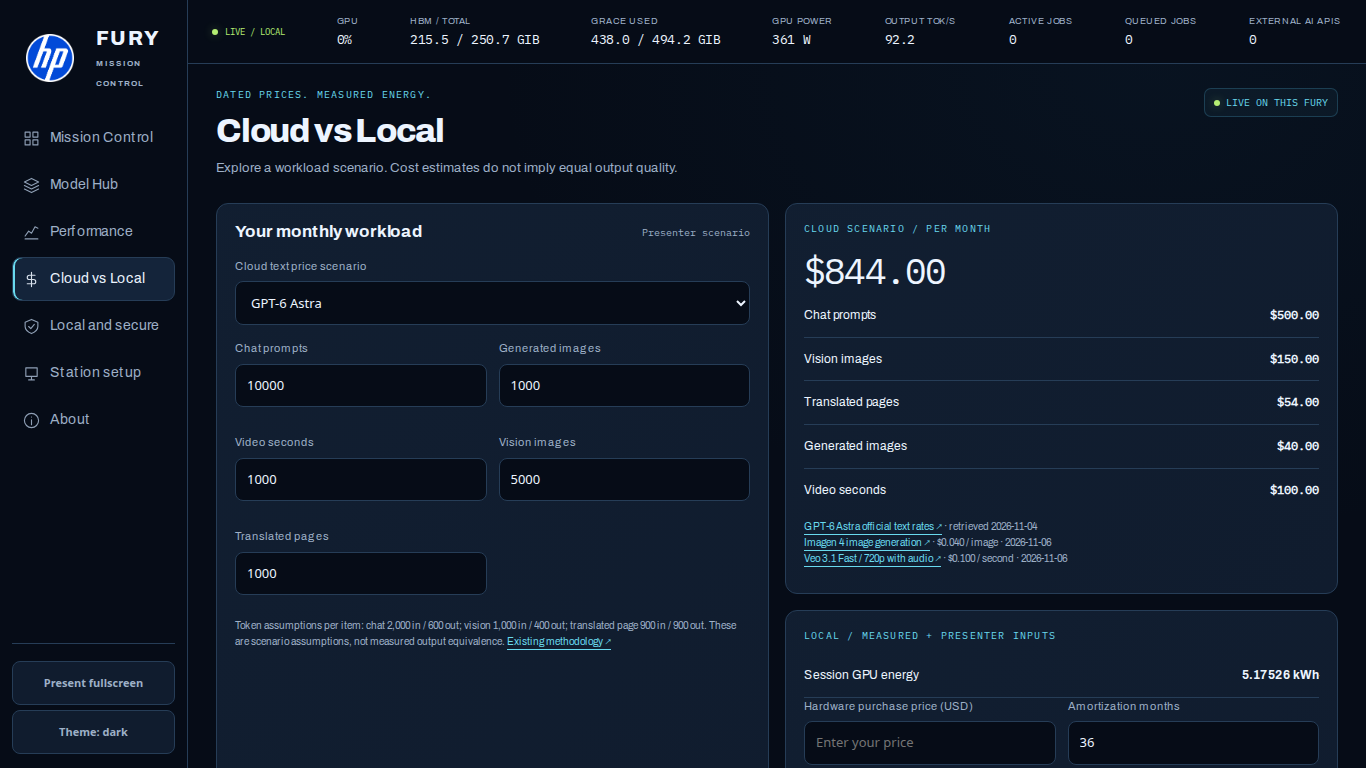
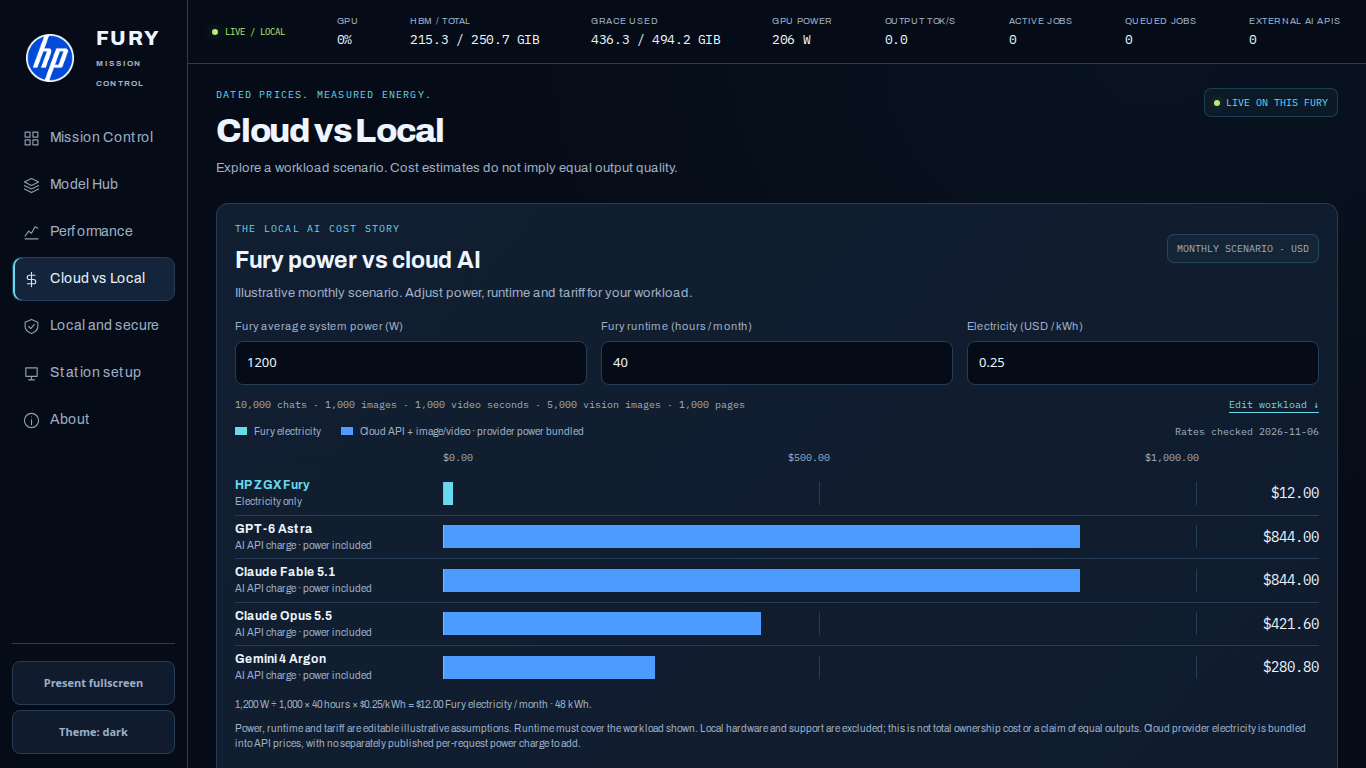
Compare Fury electricity with current frontier API cost scenarios

diff --git a/showcase_app/assets/frontier-cost.js b/showcase_app/assets/frontier-cost.js
@@ -1,0 +1,56 @@
+/* Cost scenarios only: no inference, external price requests or ownership-cost claims. */
+(() => {
+ const finite=value=>typeof value==='number'&&Number.isFinite(value)&&value>=0;
+ const amount=value=>value===''||value===null||value===undefined?null:finite(Number(value))?Number(value):null;
+ function calculate(pricing,counts,power){
+  const n=id=>amount(counts[id])??0;
+  const input=n('prompts')*2000+n('vision')*1000+n('pages')*900;
+  const output=n('prompts')*600+n('vision')*400+n('pages')*900;
+  const image=n('images')*(pricing.workloads?.image?.usd_per_unit??0);
+  const video=n('video')*(pricing.workloads?.video?.usd_per_unit??0);
+  if(![input,output,image,video].every(finite))return {invalid:true};
+  const watts=amount(power.watts),hours=amount(power.hours),tariff=amount(power.tariff);
+  const energy=watts===null||hours===null?null:watts/1000*hours;
+  const kwh=finite(energy)?energy:null;
+  const electricity=kwh===null||tariff===null?null:kwh*tariff;
+  const cloud=pricing.models.map(model=>({id:model.id,name:model.name,source:model.source,note:model.note,input:model.input,output:model.output,text:(input*model.input+output*model.output)/1e6,total:(input*model.input+output*model.output)/1e6+image+video}));
+  if(!cloud.every(model=>finite(model.text)&&finite(model.total)))return {invalid:true};
+  return {input,output,image,video,kwh,local:finite(electricity)?electricity:null,cloud};
+ }
+ const api={calculate};
+ if(typeof module!=='undefined'&&module.exports)module.exports=api;
+ if(typeof window==='undefined')return;
+ const esc=value=>String(value??'').replace(/[&<>"']/g,c=>({'&':'&amp;','<':'&lt;','>':'&gt;','"':'&quot;',"'":'&#39;'}[c]));
+ const usd=value=>value===null?'Enter power assumptions':new Intl.NumberFormat('en-US',{style:'currency',currency:'USD',minimumFractionDigits:2,maximumFractionDigits:value>0&&value<.01?5:2}).format(value);
+ api.section=()=>`<section class="mc-panel frontier-cost" aria-labelledby="frontier-cost-title">
+  <div class="mc-panel-header"><div><p class="mc-eyebrow">THE LOCAL AI COST STORY</p><h2 id="frontier-cost-title">Fury power vs cloud AI</h2></div><span class="mc-badge">MONTHLY SCENARIO · USD</span></div>
+  <p class="frontier-intro">Illustrative monthly scenario. Adjust power, runtime and tariff for your workload.</p>
+  <div class="frontier-assumptions mc-form"><label>Fury average system power (W)<input id="compare-watts" type="number" min="0" step="50" value="1200"></label><label>Fury runtime (hours / month)<input id="compare-hours" type="number" min="0" step="1" value="40"></label><label>Electricity (USD / kWh)<input id="electricity-price" type="number" min="0" step="0.01" value="0.25"></label></div>
+  <div class="frontier-context"><span id="frontier-workload"></span><a href="#monthly-workload">Edit workload ↓</a></div>
+  <div class="frontier-legend"><span><i class="frontier-key-local"></i>Fury electricity</span><span><i class="frontier-key-cloud"></i>Cloud API + image/video · provider power bundled</span><span id="frontier-asof" class="frontier-asof"></span></div>
+  <div id="frontier-bars" class="frontier-bars" role="img" aria-label="Monthly Fury electricity and frontier cloud API cost comparison"></div>
+  <p id="frontier-equation" class="mc-form-note"></p>
+  <p class="frontier-caveat">Power, runtime and tariff are editable illustrative assumptions. Runtime must cover the workload shown. Local hardware and support are excluded; this is not total ownership cost or a claim of equal outputs. Cloud provider electricity is bundled into API prices, with no separately published per-request power charge to add.</p>
+  <details class="frontier-sources"><summary>Rates, sources and what is included</summary><p id="frontier-date" class="mc-form-note"></p><div class="frontier-source-table"><table><thead><tr><th>Text model</th><th>Input / 1M</th><th>Output / 1M</th></tr></thead><tbody id="frontier-rates"></tbody></table></div><p class="mc-form-note">Standard uncached USD rates. Chat: 2,000 input / 600 output tokens; vision: 1,000 / 400; translated page: 900 / 900. Image and video generation use the same Imagen 4 / Veo 3.1 Fast API assumptions for every cloud row. Tokenizers, reasoning usage, throughput and output quality differ. Client-device electricity, taxes, tools and network costs are excluded from both options.</p></details>
+ </section>`;
+ let previous='';
+ api.render=(pricing,counts,power)=>{
+  const chart=document.getElementById('frontier-bars');if(!chart)return;
+  const signature=JSON.stringify([pricing,counts,power]);if(signature===previous)return;previous=signature;
+  const c=calculate(pricing,counts,power);
+  if(c.invalid){chart.textContent='Workload values are too large to calculate. Reduce the inputs.';return;}
+  const local={id:'fury',name:'HP ZGX Fury',total:c.local,local:true};
+  const rows=[local,...c.cloud],largest=Math.max(...rows.map(row=>row.total??0),0);
+  const base=largest>0?10**Math.floor(Math.log10(largest)):1;
+  const maximum=largest>0?[1,2,5,10].map(n=>n*base).find(n=>n>=largest):1;
+  const number=value=>new Intl.NumberFormat('en-US',{maximumFractionDigits:3}).format(value);
+  chart.innerHTML='<div class="frontier-axis" aria-hidden="true"><span>'+usd(0)+'</span><span>'+usd(maximum/2)+'</span><span>'+usd(maximum)+'</span></div>'+rows.map(row=>'<div class="frontier-row '+(row.local?'frontier-local':'')+'" data-frontier-id="'+esc(row.id)+'"><div class="frontier-label"><strong>'+esc(row.name)+'</strong><small>'+(row.local?'Electricity only':'AI API charge · power included')+'</small></div><div class="frontier-track" aria-hidden="true"><i style="width:'+((row.total??0)/maximum*100)+'%"></i></div><strong class="frontier-value" data-usd="'+(row.total===null?'':row.total)+'">'+usd(row.total)+'</strong></div>').join('');
+  chart.setAttribute('aria-label',rows.map(row=>row.name+': '+usd(row.total)+' per month').join('; '));
+  document.getElementById('frontier-workload').textContent=number(amount(counts.prompts)??0)+' chats · '+number(amount(counts.images)??0)+' images · '+number(amount(counts.video)??0)+' video seconds · '+number(amount(counts.vision)??0)+' vision images · '+number(amount(counts.pages)??0)+' pages';
+  document.getElementById('frontier-equation').textContent=c.local===null?'Enter nonnegative power, runtime and tariff values. Cloud estimates remain visible.':number(Number(power.watts))+' W ÷ 1,000 × '+number(Number(power.hours))+' hours × '+usd(Number(power.tariff))+'/kWh = '+usd(c.local)+' Fury electricity / month · '+number(c.kwh)+' kWh.';
+  document.getElementById('frontier-asof').textContent='Rates checked '+pricing.checked;
+  document.getElementById('frontier-date').textContent='Representative frontier models as of '+pricing.checked+'; not a performance or usage ranking. Official text rates checked '+pricing.checked+'. Prices are cached locally; no paid cloud calls. '+(pricing.models.some(m=>m.effective_until)?'Time-limited promotions and their expiry are shown below.':'');
+  document.getElementById('frontier-rates').innerHTML=c.cloud.map(m=>'<tr><td><a href="'+esc(m.source)+'" target="_blank" rel="noopener">'+esc(m.name)+' ↗</a><small>'+esc(m.note)+'</small></td><td>'+usd(m.input)+'</td><td>'+usd(m.output)+'</td></tr>').join('');
+ };
+ window.FuryFrontierCost=api;
+})();

diff --git a/showcase_app/assets/mission.js b/showcase_app/assets/mission.js
@@ -88,7 +88,7 @@
   if(screen==='economics')initEconomics(main);
  }
  function initEconomics(el){
-  el.innerHTML=heading('DATED PRICES. MEASURED ENERGY.','Cloud vs Local','Explore a workload scenario. Cost estimates do not imply equal output quality.')+'<div class="mc-grid-two"><section class="mc-panel mc-form"><div class="mc-panel-header"><h2>Your monthly workload</h2><span>Presenter scenario</span></div><label>Cloud text price scenario<select id="cost-model"></select></label><div class="mc-form-row">'+[['prompts','Chat prompts',10000],['images','Generated images',1000],['video','Video seconds',1000],['vision','Vision images',5000],['pages','Translated pages',1000]].map(([id,label,v])=>'<label>'+label+'<input type="number" min="0" step="1" id="cost-'+id+'" value="'+v+'"></label>').join('')+'</div><p class="mc-form-note">Token assumptions per item: chat 2,000 in / 600 out; vision 1,000 in / 400 out; translated page 900 in / 900 out. These are scenario assumptions, not measured output equivalence. '+sourceLink('/methodology','Existing methodology')+'</p></section><div><section class="mc-panel"><p class="mc-eyebrow">CLOUD SCENARIO / PER MONTH</p><div class="mc-cost-value" id="cloud-total">—</div><div id="cloud-breakdown"></div><p class="mc-form-note" id="cost-source"></p></section><section class="mc-panel mc-form" style="margin-top:16px"><p class="mc-eyebrow">LOCAL / MEASURED + PRESENTER INPUTS</p><div class="mc-cost-line"><span>Session GPU energy</span><b id="local-energy">—</b></div><div class="mc-form-row"><label>Hardware purchase price (USD)<input id="hardware-price" type="number" min="0" placeholder="Enter your price"></label><label>Amortization months<input id="amort-months" type="number" min="1" value="36"></label><label>Your electricity price (USD/kWh)<input id="electricity-price" type="number" min="0" step="0.01" placeholder="Enter your tariff"></label></div><div class="mc-cost-line"><span>Hardware amortization / month</span><b id="amort-value">Enter hardware price</b></div><div class="mc-cost-line"><span>Measured session GPU electricity</span><b id="electricity-value">Enter your tariff</b></div><p class="mc-form-note">Electricity is not total cost of ownership. GPU energy excludes Grace, cooling and other host energy. Hardware, support, utilization and output quality change the comparison. No monthly electricity projection is invented.</p></section></div></div>';
+  el.innerHTML=heading('DATED PRICES. MEASURED ENERGY.','Cloud vs Local','Explore a workload scenario. Cost estimates do not imply equal output quality.')+window.FuryFrontierCost.section()+'<div class="mc-grid-two" id="monthly-workload"><section class="mc-panel mc-form"><div class="mc-panel-header"><h2>Your monthly workload</h2><span>Presenter scenario</span></div><label>Cloud text price scenario<select id="cost-model"></select></label><div class="mc-form-row">'+[['prompts','Chat prompts',10000],['images','Generated images',1000],['video','Video seconds',1000],['vision','Vision images',5000],['pages','Translated pages',1000]].map(([id,label,v])=>'<label>'+label+'<input type="number" min="0" step="1" id="cost-'+id+'" value="'+v+'"></label>').join('')+'</div><p class="mc-form-note">Token assumptions per item: chat 2,000 in / 600 out; vision 1,000 in / 400 out; translated page 900 in / 900 out. These are scenario assumptions, not measured output equivalence. '+sourceLink('/methodology','Existing methodology')+'</p></section><div><section class="mc-panel"><p class="mc-eyebrow">CLOUD SCENARIO / PER MONTH</p><div class="mc-cost-value" id="cloud-total">—</div><div id="cloud-breakdown"></div><p class="mc-form-note" id="cost-source"></p></section><section class="mc-panel mc-form" style="margin-top:16px"><p class="mc-eyebrow">LOCAL / MEASURED + PRESENTER INPUTS</p><div class="mc-cost-line"><span>Session GPU energy</span><b id="local-energy">—</b></div><div class="mc-form-row"><label>Hardware purchase price (USD)<input id="hardware-price" type="number" min="0" placeholder="Enter your price"></label><label>Amortization months<input id="amort-months" type="number" min="1" value="36"></label></div><div class="mc-cost-line"><span>Hardware amortization / month</span><b id="amort-value">Enter hardware price</b></div><div class="mc-cost-line"><span>Measured session GPU electricity</span><b id="electricity-value">Enter your tariff</b></div><p class="mc-form-note">Electricity is not total cost of ownership. GPU energy excludes Grace, cooling and other host energy. Hardware, support, utilization and output quality change the comparison. The monthly chart uses your explicit power and runtime assumptions above.</p></section></div></div>';
   el.querySelectorAll('input,select').forEach(n=>n.addEventListener('input',()=>latest&&economics(latest)));
  }
  let pricingSignature='';
@@ -101,6 +101,7 @@
   if(pricing.workloads?.video)entries.push(['Video seconds',value('cost-video')*pricing.workloads.video.usd_per_unit]);
   text('cloud-total','$'+num(entries.reduce((sum,[_,v])=>sum+v,0),2));document.getElementById('cloud-breakdown').innerHTML=entries.map(([label,v])=>'<div class="mc-cost-line"><span>'+label+'</span><b class="mc-mono">$'+num(v,2)+'</b></div>').join('');
   document.getElementById('cost-source').innerHTML=sourceLink(model.source,model.name+' official text rates')+' · retrieved '+esc(pricing.checked)+(pricing.workloads?Object.values(pricing.workloads).map(p=>'<br>'+sourceLink(p.source,p.name)+' · $'+num(p.usd_per_unit,3)+' / '+esc(p.unit)+' · '+esc(p.retrieved)).join(''):'');
+  window.FuryFrontierCost.render(pricing,Object.fromEntries(['prompts','images','video','vision','pages'].map(id=>[id,document.getElementById('cost-'+id).value])),{watts:document.getElementById('compare-watts').value,hours:document.getElementById('compare-hours').value,tariff:document.getElementById('electricity-price').value});
   const energy=data.event.totals.energies_kwh['GPU only'];text('local-energy',typeof energy==='number'?num(energy,5)+' kWh':'Collecting measured energy');
   const hp=document.getElementById('hardware-price').value,tariff=document.getElementById('electricity-price').value;
   text('amort-value',hp?'$'+num(value('hardware-price')/Math.max(1,value('amort-months')),2):'Enter hardware price');text('electricity-value',tariff!==''&&typeof energy==='number'?'$'+num(energy*value('electricity-price'),4):'Enter your tariff');

diff --git a/showcase_app/assets/mission.css b/showcase_app/assets/mission.css
@@ -51,3 +51,10 @@ body:is(.mission-layout,.mission-embedded)[data-workflow=atlas]>footer>div{gap:1
 body:is(.mission-layout,.mission-embedded)[data-workflow=atlas]>footer button,body:is(.mission-layout,.mission-embedded)[data-workflow=atlas] #local-clock{white-space:nowrap}
 @media(min-width:1000px) and (max-width:1320px){body:is(.mission-layout,.mission-embedded)[data-workflow=atlas] .workspace{grid-template-columns:minmax(180px,.75fr) minmax(340px,1.5fr) minmax(220px,1fr)!important}}
 @media(min-width:1000px){body:is(.mission-layout,.mission-embedded)[data-workflow=atlas] .left-column{display:flex!important;flex-direction:column;gap:10px}body:is(.mission-layout,.mission-embedded)[data-workflow=atlas] .secondary-actions{grid-column:auto;flex-direction:column;margin-top:0}body:is(.mission-layout,.mission-embedded)[data-workflow=atlas] .secondary-actions button{min-width:0}}
+
+/* The cost story uses one zero-based, linear USD axis for every option. */
+.frontier-cost{margin-bottom:20px}.frontier-cost .mc-panel-header{margin-bottom:8px}.frontier-cost h2{font-size:23px}.frontier-intro{margin:5px 0 14px!important}.frontier-assumptions{display:grid;grid-template-columns:repeat(3,minmax(0,1fr));gap:14px}.frontier-assumptions label{margin-bottom:10px}.frontier-context{display:flex;gap:14px;justify-content:space-between;align-items:center;font:10px/1.5 Plex,monospace;color:var(--mc-muted);margin:2px 0 12px}.frontier-context a{white-space:nowrap}.frontier-legend{display:flex;gap:20px;flex-wrap:wrap;font-size:10px;color:var(--mc-muted);margin:0 0 4px}.frontier-legend span{display:inline-flex;gap:7px;align-items:center}.frontier-legend i{width:12px;height:8px;display:inline-block}.frontier-key-local{background:var(--mc-cyan)}.frontier-key-cloud{background:var(--mc-blue)}.frontier-axis{margin-left:208px;margin-right:120px;display:flex;justify-content:space-between;color:var(--mc-muted);font:10px Plex,monospace;padding:8px 0}.frontier-row{display:grid;grid-template-columns:190px minmax(0,1fr) 104px;gap:18px;align-items:center;padding:9px 0;border-bottom:1px solid var(--mc-line)}.frontier-row:last-child{border-bottom:0}.frontier-label strong{font-size:12px;display:block}.frontier-label small{display:block;font-size:10px;color:var(--mc-muted);margin-top:4px}.frontier-track{height:23px;border-left:1px solid var(--mc-muted);background:repeating-linear-gradient(to right,transparent 0,transparent calc(50% - 1px),var(--mc-line) calc(50% - 1px),var(--mc-line) 50%)}.frontier-track i{height:100%;display:block;background:var(--mc-blue);transition:width .25s ease}.frontier-local .frontier-track i{background:var(--mc-cyan)}.frontier-local .frontier-label strong{color:var(--mc-cyan)}.frontier-value{text-align:right;font:14px Plex,monospace;overflow-wrap:anywhere}.frontier-caveat{font-size:10px!important;line-height:1.6!important;margin:8px 0!important}.frontier-sources{font-size:11px;color:var(--mc-muted)}.frontier-sources summary{cursor:pointer;min-height:36px;display:list-item;padding:9px 0}.frontier-source-table{overflow:auto}.frontier-source-table table{border-collapse:collapse;width:100%;font-size:11px}.frontier-source-table td,.frontier-source-table th{text-align:left;padding:10px 8px;border-bottom:1px solid var(--mc-line)}.frontier-source-table td small{display:block;font-size:10px;max-width:620px;line-height:1.5;margin-top:4px}.frontier-source-table td:not(:first-child){white-space:nowrap}#monthly-workload{scroll-margin-top:14px}
+@media(max-width:700px){.frontier-cost h2{font-size:20px}.frontier-assumptions{grid-template-columns:1fr;gap:0}.frontier-cost .mc-panel-header{align-items:start;flex-direction:column}.frontier-context{align-items:start;flex-direction:column;gap:6px}.frontier-row{grid-template-columns:minmax(0,1fr) 95px;gap:8px}.frontier-label{grid-column:1}.frontier-value{grid-column:2;grid-row:1}.frontier-track{grid-column:1/-1;grid-row:2;height:19px}.frontier-axis{margin:0}.frontier-legend{gap:8px}}
+@media(prefers-reduced-motion:reduce){.frontier-track i{transition:none}}
+.frontier-row{padding:6px 0}.frontier-label strong{line-height:1.25}.frontier-label small{line-height:1.25;margin-top:3px}.frontier-caveat{line-height:1.5!important}
+.frontier-asof{margin-left:auto;font-family:Plex,monospace}

diff --git a/ops/tests/test_frontier_cost.js b/ops/tests/test_frontier_cost.js
@@ -1,0 +1,40 @@
+/* Independent arithmetic cases for the public monthly comparison. */
+const {test}=require('node:test');
+const assert=require('node:assert/strict');
+const {calculate}=require('../../showcase_app/assets/frontier-cost.js');
+const pricing=require('../../config/event-pricing.json');
+const counts={prompts:10000,images:1000,video:1000,vision:5000,pages:1000};
+const power={watts:1200,hours:40,tariff:.25};
+test('same monthly workload is priced for every model, with one shared media charge',()=>{
+ const c=calculate(pricing,counts,power);
+ assert.equal(c.input,25900000);assert.equal(c.output,8900000);
+ assert.equal(c.image,40);assert.equal(c.video,100);
+ assert.equal(c.kwh,48);assert.equal(c.local,12);
+ assert.equal(c.cloud.find(m=>m.id==='gpt-6-astra').total,844);
+ assert.equal(c.cloud.find(m=>m.id==='claude-fable-5-1').total,844);
+ assert.equal(c.cloud.find(m=>m.id==='claude-opus-5-5').total,421.6);
+ assert.equal(c.cloud.find(m=>m.id==='gemini-4-argon').total,280.8);
+});
+test('free tariff and zero workload are real zeros',()=>{
+ assert.equal(calculate(pricing,counts,{...power,tariff:0}).local,0);
+ const c=calculate(pricing,{}, {...power,hours:0});
+ assert.equal(c.local,0);assert.ok(c.cloud.every(m=>m.total===0));
+});
+test('missing or invalid power assumptions are unavailable, not zero or a fabricated saving',()=>{
+ for(const value of ['',undefined,null,-1,'bad',Infinity]){
+  assert.equal(calculate(pricing,counts,{...power,tariff:value}).local,null);
+  assert.equal(calculate(pricing,counts,{...power,hours:value}).local,null);
+  assert.equal(calculate(pricing,counts,{...power,watts:value}).local,null);
+ }
+});
+test('expired promotional prices supplied by server change text only; no provider energy double count',()=>{
+ const expired={...pricing,models:pricing.models.map(m=>m.id==='gemini-4-argon'?{...m,input:4,output:20}:m)};
+ const c=calculate(expired,counts,power);
+ assert.equal(c.cloud.find(m=>m.id==='gemini-4-argon').total,421.6);
+ assert.equal(c.local,12);
+});
+test('overflow never appears as a numeric cost or a zero-cost claim',()=>{
+ assert.equal(calculate(pricing,{...counts,prompts:1e308},power).invalid,true);
+ assert.equal(calculate(pricing,{...counts,prompts:1e304},power).invalid,true);
+ assert.equal(calculate(pricing,counts,{...power,watts:1e308,hours:1e308}).local,null);
+});

diff --git a/showcase_app/mission.html b/showcase_app/mission.html
@@ -1,1 +1,1 @@
-<!doctype html><html lang="en"><head><meta charset="utf-8"><meta name="viewport" content="width=device-width,initial-scale=1"><title>Fury Mission Control</title><link rel="icon" href="/showcase-assets/hp-logo-keyline.png"><link rel="stylesheet" href="/showcase-assets/design.css"><link rel="stylesheet" href="/showcase-assets/hp-shell.css"><link rel="stylesheet" href="/showcase-assets/mission.css"><script defer src="/showcase-assets/device-navigation.js"></script><script defer src="/showcase-assets/hp-shell.js"></script><script defer src="/showcase-assets/mission.js"></script></head><body><main class="mission-main" id="main"><div id="mission-content"></div></main></body></html>
+<!doctype html><html lang="en"><head><meta charset="utf-8"><meta name="viewport" content="width=device-width,initial-scale=1"><title>Fury Mission Control</title><link rel="icon" href="/showcase-assets/hp-logo-keyline.png"><link rel="stylesheet" href="/showcase-assets/design.css"><link rel="stylesheet" href="/showcase-assets/hp-shell.css"><link rel="stylesheet" href="/showcase-assets/mission.css"><script defer src="/showcase-assets/device-navigation.js"></script><script defer src="/showcase-assets/hp-shell.js"></script><script defer src="/showcase-assets/frontier-cost.js"></script><script defer src="/showcase-assets/mission.js"></script></head><body><main class="mission-main" id="main"><div id="mission-content"></div></main></body></html>

diff --git a/docs/CLOUD-COMPARISON.md b/docs/CLOUD-COMPARISON.md
@@ -1,0 +1,24 @@
+# Fury electricity and frontier API comparison
+
+The Cloud vs Local page (`/economics`) now leads with an interactive horizontal bar chart. All bars share a linear USD axis starting at zero, with exact values visible alongside them. Power, hours, tariff and monthly workload are editable; changing them updates the chart and preserves the existing detailed calculator and measured event-energy readout.
+
+The local bar is **estimated whole-Fury electricity**, using the presenter's average system power, runtime and tariff. The initial 1,200 W / 40 hours / $0.25 per kWh are explicitly illustrative assumptions, not wall-meter measurements or a local tariff claim. Runtime must cover the entered workload. Hardware, support, cooling outside the supplied power scope and client-device costs are excluded. Electricity is not total ownership cost.
+
+Cloud bars include the text API estimate plus the same configured image/video-generation services. Provider electricity is bundled into the API charge; providers do not publish a separate per-request electricity charge to add. No artificial cloud power surcharge or energy split is invented. Tokenizers, reasoning usage, throughput, quality and task success differ; these are cost scenarios, not measured output equivalence or a model popularity ranking.
+
+## Rates checked 6 November 2026
+
+| Representative model | Standard input / 1M USD | Standard output / 1M USD | Official source |
+|---|---:|---:|---|
+| GPT-6 Astra | 10 | 50 | [OpenAI model page](https://developers.openai.com/api/docs/models/gpt-6-astra) and [pricing](https://developers.openai.com/api/docs/pricing) |
+| Claude Fable 5.1 | 10 | 50 | [Anthropic pricing](https://platform.claude.com/docs/en/about-claude/pricing) |
+| Claude Opus 5.5 | 4 | 20 | [Anthropic pricing](https://platform.claude.com/docs/en/about-claude/pricing) |
+| Gemini 4 Argon | 2 | 10 | [Google pricing](https://aistudio.google.com/docs/pricing#gemini-4-argon) |
+
+Gemini's promotional $2 / $10 rates expire after 30 November 2026; the server uses $4 / $20 from 1 December. Existing per-request long-context pricing remains intact for event repricing. Monthly items use the displayed short-request assumptions. No prompt-cache, batch or regional discounts, taxes or paid tools are inferred. All prices are cached locally; visitors make no cloud inference or price-fetch calls.
+
+For the initial monthly example, 10,000 chats, 5,000 vision inputs and 1,000 translated pages represent 25.9 million assumed input and 8.9 million assumed output tokens. Image generation adds $40 (1,000 × $0.04) and video adds $100 (1,000 seconds × $0.10). These shared Imagen 4 / Veo 3.1 Fast assumptions and their official sources remain visible in the calculator. The resulting cloud rows are $844.00, $844.00, $421.60 and $280.80. The local example is 1.2 kW × 40 hours × $0.25 = **$12.00** for 48 kWh. This arithmetic does not establish that the machine can finish any arbitrary workload in 40 hours.
+
+## Verification
+
+Five independent arithmetic tests cover token/media reconciliation, zero versus unavailable electricity, promotion-expiry inputs and numeric overflow. Existing fifteen event accounting/pricing tests pass. Real Chromium and Firefox checks cover dark/light themes at six viewport sizes (24 combinations), visible exact values, changed runtime, zero/missing tariff and changed workload. Browser exceptions and failed HTTP resources were absent. Screenshots were visually inspected in dark/light and mobile layouts. The retained operator's four-model prices and cumulative chart were also checked. No model engines, inference admission, privacy retention or service lifecycle settings changed.

diff --git a/README.md b/README.md
@@ -44,7 +44,7 @@ Setup creates pinned local environments, verifies model files, builds the editor
 
 DeepSeek retains its 16K context and one sequence; Qwen retains its 65K context and four sequences. Gateway admission remains four total, three ordinary and one reserved for Atlas. Factory admits one build and at most two development calls. FLUX and Wan share one creative process and one active GPU slot, with three queue slots; idle modules are offloaded to physical Grace. The 10 GiB HBM reserve is preserved. Short lead requests visibly route to Qwen when DeepSeek is busy, with requested/actual model and reason in the ledger.
 
-Telemetry comes from native GPU/CPU/memory counters and vLLM output-token deltas, using one shared collector and cached SSE. External AI requests count instrumented gateway destinations, not all machine traffic. Energy is GPU-only; electricity is not total ownership cost. Cloud prices are dated official scenarios with output/capability differences disclosed. [Architecture](docs/ARCHITECTURE.md) · [Verification](docs/V3_VERIFICATION.md).
+Telemetry comes from native GPU/CPU/memory counters and vLLM output-token deltas, using one shared collector and cached SSE. External AI requests count instrumented gateway destinations, not all machine traffic. Cloud vs Local includes a [frontier API cost bar chart](docs/CLOUD-COMPARISON.md) with editable whole-system power, runtime and tariff assumptions; provider electricity stays bundled into API prices. Measured session energy is GPU-only; electricity is not total ownership cost. Cloud prices are dated official scenarios with output/capability differences disclosed. [Architecture](docs/ARCHITECTURE.md) · [Verification](docs/V3_VERIFICATION.md).
 
 Conference stations remain at `/stations`; assignments belong to each browser. Use the actual CSS viewport at 100% zoom, principally 1366×768, plus 1280×720, 1440×900, 1920×1080 and shorter laptop cases. Workspaces use contained scrolling. Fullscreen is optional.
 

diff --git a/docs/PRESENTER.md b/docs/PRESENTER.md
@@ -13,6 +13,10 @@ Start at http://localhost:8080. Show the eight workload cards and the live GPU/H
 | Video Studio | Choose text or an Image Studio reference, then generate five seconds. Show real steps, frames, model/adapters and elapsed time. This is a fixed proven preset. |
 | Action Trailer | Read consent before camera access. Choose an original PG genre, capture once and show screenplay/keyframes/clips as they finish. Generation exceeds a minute. Tap final fullscreen with sound, then Done to visibly delete photo and video. |
 
+## Cloud vs Local
+
+Open `/economics` and show the Fury power versus cloud API bars. Change runtime or tariff, then edit the monthly workload. Explain that the initial 1,200 W, 40 hours and $0.25/kWh are illustrative inputs; the local bar excludes hardware/support. Cloud provider electricity is bundled into API charges. The graph is a cost scenario, not equal-quality or throughput evidence. Expand the dated official rates for details.
+
 ## Fury Rush
 
 Press **Launch Fury Rush** once. “Six workflows are submitting through their real controls. One Factory build remains the global limit; visible queues preserve the workstation's admission limits.” Show DeepSeek/Qwen/FLUX lanes and measured throughput. Open completed workspaces without abandoning Factory. Wait for every tile to reach complete or failed; a failed tile is a real failure, not a canned replacement. The longest workload is the live Factory build.
